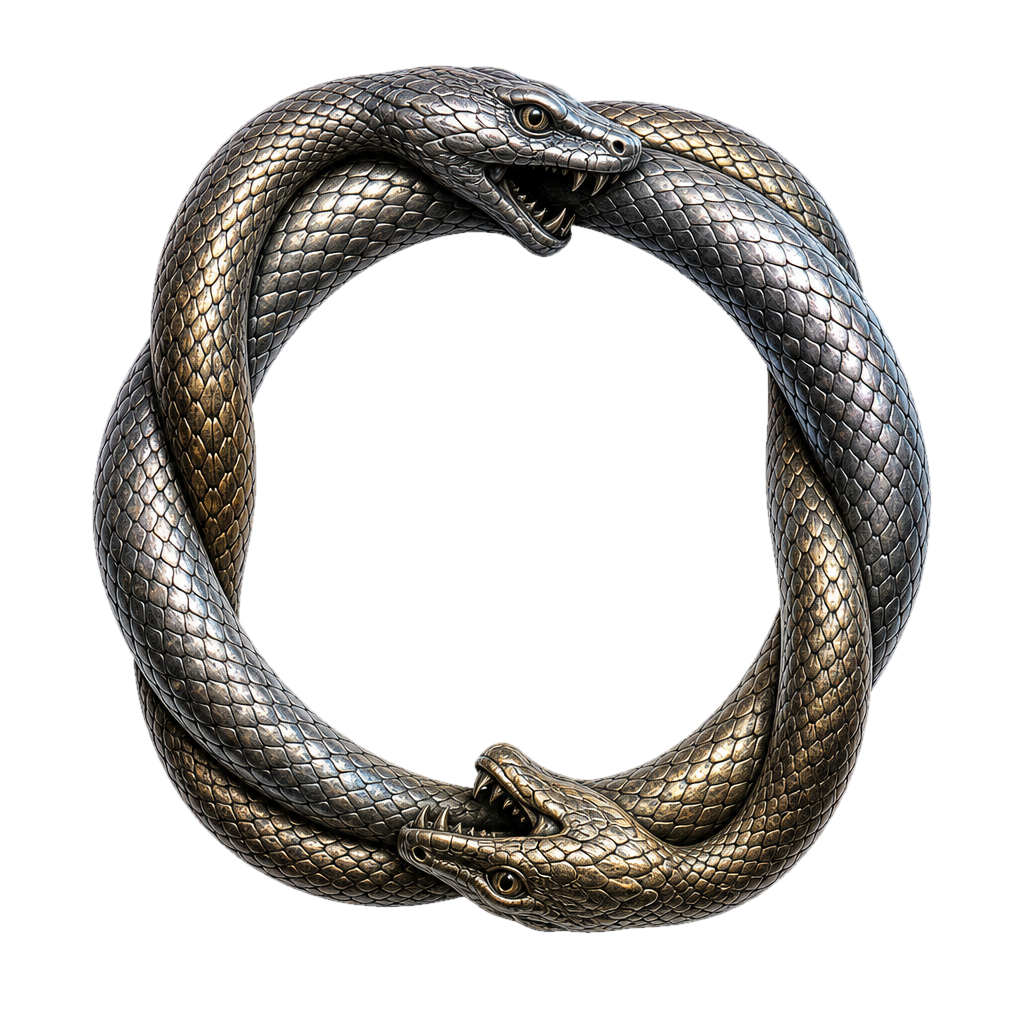
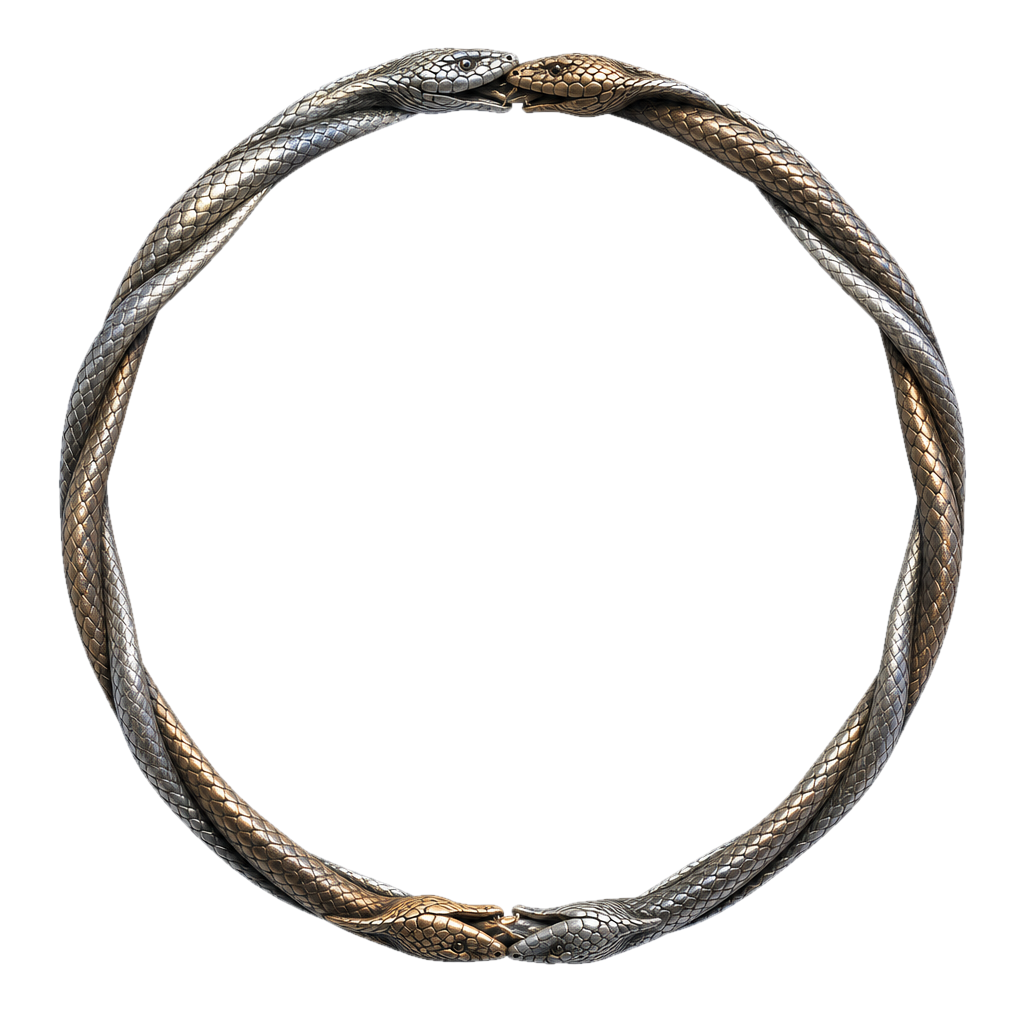
Thinner, smaller 3D serpent ring between sigil and runes; 25% faster rotation.

diff --git a/index.html b/index.html
@@ -10,10 +10,10 @@
   <link rel="preconnect" href="https://fonts.googleapis.com">
   <link rel="preconnect" href="https://fonts.gstatic.com" crossorigin>
   <link href="https://fonts.googleapis.com/css2?family=Cormorant+Garamond:ital,wght@0,300;0,400;1,300;1,400&family=Nothing+You+Could+Do&display=swap" rel="stylesheet">
-  <link rel="stylesheet" href="css/style.css?v=13">
-  <link rel="stylesheet" href="css/textures.css?v=13">
-  <link rel="stylesheet" href="css/alive.css?v=13">
-  <link rel="stylesheet" href="css/responsive.css?v=13">
+  <link rel="stylesheet" href="css/style.css?v=14">
+  <link rel="stylesheet" href="css/textures.css?v=14">
+  <link rel="stylesheet" href="css/alive.css?v=14">
+  <link rel="stylesheet" href="css/responsive.css?v=14">
 </head>
 <body class="esoteric-surface">
 
@@ -42,7 +42,7 @@
           <div class="living__axis living__axis--v" aria-hidden="true"></div>
 
           <div class="living__ouroboros">
-            <img src="assets/ouroboros-3d.png?v=1" alt="" class="living__ouroboros-img" aria-hidden="true" width="1024" height="1024">
+            <img src="assets/ouroboros-3d.png?v=2" alt="" class="living__ouroboros-img" aria-hidden="true" width="1024" height="1024">
           </div>
         </div>
       </div>

diff --git a/css/alive.css b/css/alive.css
@@ -78,13 +78,13 @@
 
 .living__ouroboros-img {
   position: absolute;
-  top: -7%;
-  left: -7%;
-  width: 114%;
-  height: 114%;
+  top: 10%;
+  left: 10%;
+  width: 80%;
+  height: 80%;
   object-fit: contain;
   transform-origin: 50% 50%;
-  animation: ouroborosSpin 90s linear infinite;
+  animation: ouroborosSpin 72s linear infinite;
   filter:
     drop-shadow(0 0 14px rgba(0, 0, 0, 0.65))
     drop-shadow(0 0 26px rgba(190, 180, 165, 0.12))
